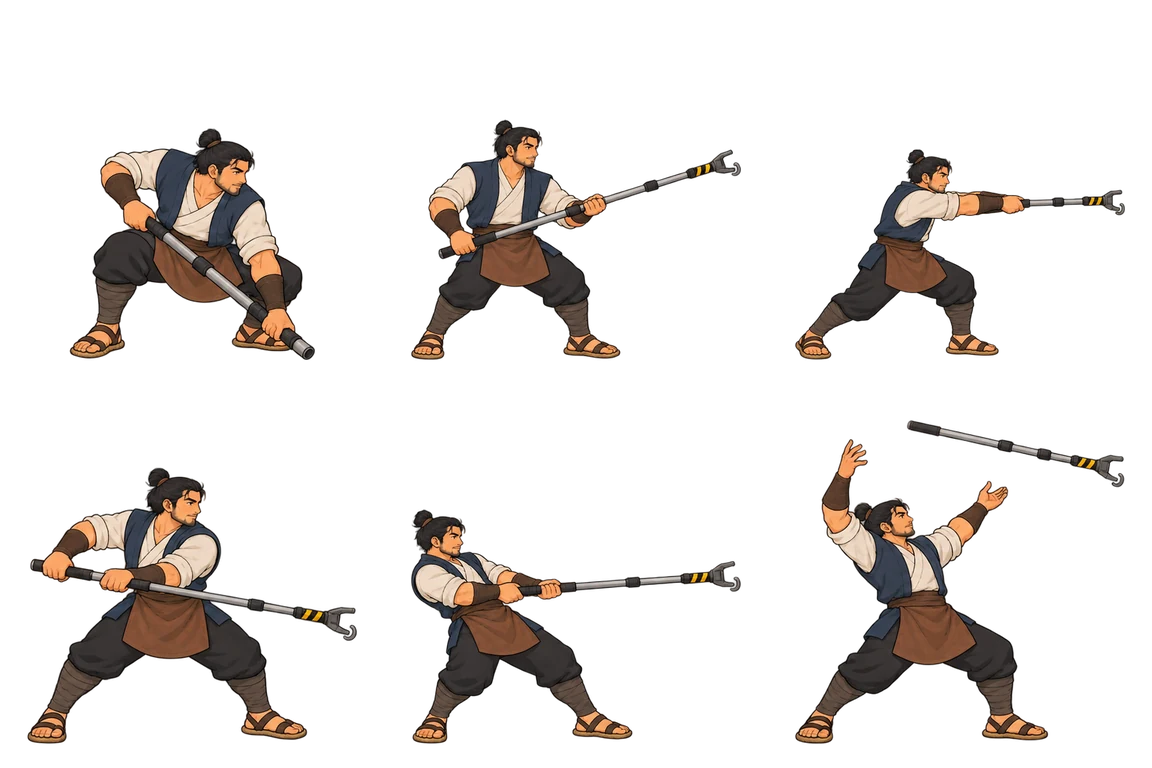
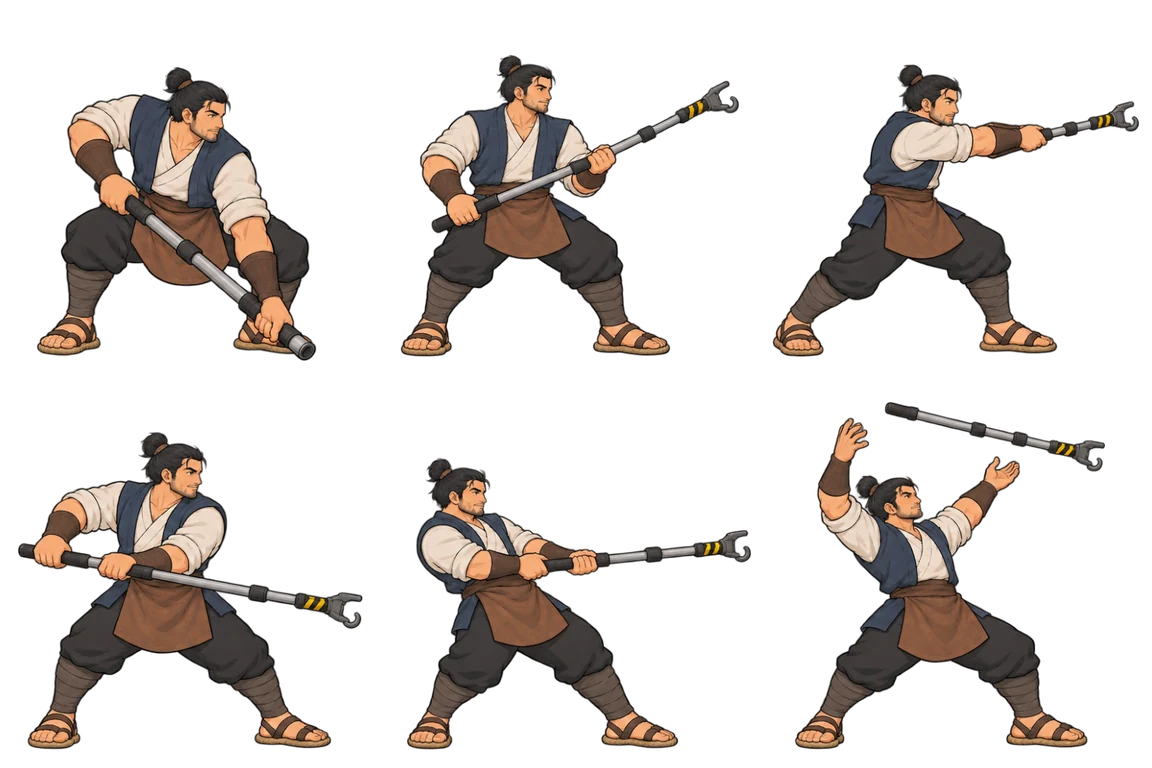
Import Mountain's and River's lance redraws (RD03, RD04): one size in every pose (#66)
* Import Mountain's lance redraw (RD03): one size in every pose, scale 1.0

Claude-Session: https://claude.ai/code/session_0139SQ3paqJydhynh44z9WB6

* Import River's lance redraw (RD04): one size in every pose, scale 0.96

Claude-Session: https://claude.ai/code/session_0139SQ3paqJydhynh44z9WB6

* Draw Mountain's dash at his run size (was about 10 % smaller)

Claude-Session: https://claude.ai/code/session_0139SQ3paqJydhynh44z9WB6

* Weapon throws: empty hands from the release on (the weapon was drawn twice)

The sim lets go of a thrown weapon on the throw's first active frame, but the
hero kept the throw pose (weapon in hand) until the action ended.

Claude-Session: https://claude.ai/code/session_0139SQ3paqJydhynh44z9WB6

---------

diff --git a/packages/platform/test/sprites.test.ts b/packages/platform/test/sprites.test.ts
@@ -402,3 +402,24 @@ test('the Sluice Commander leaps through his Flying Knee instead of holding a cr
   }
   expect(cells).toEqual([0, 1, 2, 3, 4, 5]);
 });
+
+test('a weapon throw never draws the weapon in hand once it has let go (Guo, 2026-11-22)', () => {
+  for (const h of HEROES) {
+    for (const weapon of ['service-lance', 'workstaff', 'six-round-sidearm', 'wood-axe']) {
+      const w = createWorld(1, { heroes: [h.id, 'river'] });
+      const f = heroOf(w, 0)!;
+      claim(w, f, spawnItem(w, weaponIndex(weapon), f.x, f.z));
+      const kit = kitOf(f)!;
+      const i = kit.actions.findIndex((a) => a.category === 'weaponThrow');
+      expect(i, `${h.id} ${weapon} throw`).toBeGreaterThanOrEqual(0);
+      const a = kit.actions[i]!;
+      startAction(f, i);
+      for (let n = 0; n < totalFrames(a); n += 1) {
+        f.stateFrame = n;
+        const s = pick.fighter(f, 0)!;
+        // The weapon leaves the hand on the first active frame (sim items.ts).
+        if (n >= a.startup) expect(s.sheet, `${h.id} ${a.id} frame ${n}`).toMatch(/\.idle$/);
+      }
+    }
+  }
+});

diff --git a/packages/platform/src/assets/sprites.ts b/packages/platform/src/assets/sprites.ts
@@ -628,6 +628,12 @@ export class SpritePicker {
         const p = phase(f, a);
         const wp = WEAPON_POSES[a.id];
         // A hero without Stage 1 weapon sheets (the twins) swings with its neutral starter.
+        // A weapon throw lets go on its first active frame (sim items.ts release): from then
+        // on the weapon flies as its own item, so the hero's pose must not still draw it in
+        // hand (two weapons on screen, Guo 2026-11-22). The throw pose shows the wind-up;
+        // the release and recovery show the hero with empty hands.
+        if (wp && a.pose.startsWith('weapon.') && p > 0 && a.category === 'weaponThrow')
+          return s('idle', 0);
         if (wp && a.pose.startsWith('weapon.'))
           return (
             s(wp.sheet, wp.cells[p]) ??

diff --git a/tools/art/size_fixes.py b/tools/art/size_fixes.py
@@ -11,7 +11,7 @@ never compounds them.
 Not listed on purpose: walk and run sheets drawn in profile (the head reads small against
 the three-quarter idle head, but the standing height matches), and sheets whose cells
 differ from each other (one scale cannot fix them; they need a redraw, as Wind's and Fire's
-lance-a got on 2026-11-19).
+lance-a got on 2026-11-19 and Mountain's and River's on 2026-11-22).
 """
 
 from __future__ import annotations
@@ -19,6 +19,10 @@ from __future__ import annotations
 SIZE_FIX: dict[str, float] = {
     # The lance-a redraw (RD02), fitted into its cells at 0.96 (repack_cells.py): was 0.92.
     "hero.fire.sheet.lance-a": 1.0,
+    # The lance redraw (RD03), fitted into its cells at 0.97 (repack_cells.py): was 0.9.
+    "hero.mountain.sheet.lance-a": 1.0,
+    # The lance redraw (RD04): head 0.92 to 0.94 x idle at 0.92; 0.96 checked by eye.
+    "hero.river.sheet.lance-a": 0.96,
     "hero.fire.pose.standing.forge-side-hook": 1.149,  # was 1.0, head 0.87 x idle
     "hero.fire.pose.standing.rising-brand": 1.136,  # was 1.0, head 0.88 x idle
     "hero.fire.pose.standing.spark-jab": 0.943,  # was 1.0, head 1.06 x idle
@@ -30,6 +34,9 @@ SIZE_FIX: dict[str, float] = {
     "hero.fire.sheet.exact-counter": 0.926,  # was 1.0, head 1.08 x idle
     "hero.fire.sheet.guard": 0.926,  # was 1.0, head 1.08 x idle
     "hero.fire.sheet.hammer": 1.105,  # was 1.0, head 0.91 x idle
+    # Mountain shrank for the dash before a run (Guo, 2026-11-22): set to the run's head size.
+    "hero.mountain.sheet.dash": 0.91,  # was 0.82, head 0.78 x idle (run 0.85)
+    "hero.mountain.s3.sheet.dash": 0.94,  # was 0.792, head 0.76 x idle (run 0.92)
     "hero.mountain.s3.sheet.breaker-pickup": 0.807,  # was 0.864, head 1.07 x idle
     "hero.mountain.s3.sheet.grab-throw": 0.854,  # was 0.905, head 1.06 x idle
     "hero.river.s3.sheet.guard": 0.857,  # was 0.926, head 1.08 x idle

diff --git a/tools/art/import_art.py b/tools/art/import_art.py
@@ -63,6 +63,8 @@ APPROVED = {
     # into their cells by tools/art/repack_cells.py (Wind 0.92, Fire 0.96).
     "HERO-WND-LANCE-A": "HERO-WND-LANCE-A_v2_fit.png",
     "HERO-FIR-LANCE-A": "HERO-FIR-LANCE-A_v2_fit.png",
+    "HERO-MTN-LANCE": "HERO-MTN-LANCE_v2_fit.png",
+    "HERO-RIV-LANCE": "HERO-RIV-LANCE_v2.png",
 }
 
 HEROES = {

diff --git a/Guo_tests.md b/Guo_tests.md
@@ -1906,3 +1906,40 @@ Use the commands of the section above (this branch).
 2. **Fire's Stage 3 run:** the same as Fire in a Stage 3 room.
 3. **Wind's and Fire's lance:** Lab, Stage 2 Systems Saboteur, pick up the lance as Wind and as Fire: holding it, they stay the size of their idle pose.
 4. **Mountain and River:** still smaller while holding the lance (known, waits for RD03/RD04).
+
+## Mountain's and River's lance redraws (RD03, RD04, 2026-11-22)
+
+**What changed:** Mountain's lance sheet is the redraw RD03: all six poses at one size, as tall as idle (the old sheet drew the stance about 20 % smaller). The thrust's back foot touched the next cell, so the sheet is fitted into its cells at 97 % (`HERO-MTN-LANCE_v2_fit.png`) and drawn at scale 1.0 (was 0.9). River's lance sheet is the redraw RD04, used as drawn (every pose inside its cell) at scale 0.96 (was 0.92).
+
+### Get and start the build
+
+```powershell
+cd C:\AI\Claude\FightForPeace
+git fetch origin claude/project-thread-uc3buf
+git checkout claude/project-thread-uc3buf
+git reset --hard origin/claude/project-thread-uc3buf
+pnpm install
+pnpm dev
+```
+
+### Test steps
+
+1. **Holding the lance:** Lab, Stage 2 Systems Saboteur, pick up the lance as Mountain, then as River. Standing with it, each is the same size as without it.
+2. **Lance moves:** use the pickup, thrust, sweep, hook and throw with both. Each keeps one size in every move, and no stray foot or lance end shows next to them.
+3. **Walking with the lance:** walk with it; the size stays the same as standing with it.
+
+### Mountain's dash before a run (2026-11-22)
+
+**What changed:** a double tap first plays the short dash, then the run. Mountain's dash sheet was drawn about 10 % smaller than his run, so he shrank for a moment before running. The dash is now drawn at his run size (scale 0.91, Stage 3 outfit 0.94).
+
+1. **Run start:** as Mountain, double-tap and hold **D**: he keeps one size from the dash into the run.
+2. **Stage 3 outfit:** the same in a Stage 3 room.
+3. **Dash alone:** double-tap **D** without holding: the dash is the size of his walk.
+
+### A thrown weapon is no longer drawn twice (2026-11-22)
+
+**What changed:** a weapon throw lets go of the weapon on its first active frame, and from then on the weapon flies as its own picture. The hero's throw pose still drew the weapon in hand until the throw ended, so two weapons showed. Now the throw pose shows only the wind-up; from the release on, the hero's hands are empty. A new test checks this for every hero with the lance, workstaff, sidearm and axe.
+
+1. **Lance:** Lab, Stage 2 Systems Saboteur, pick up the lance and throw it (Interact while holding) with each hero: one lance only, leaving the hands.
+2. **Other weapons:** the same with the workstaff (Stage 1) and the axe or hammer (Stage 3).
+3. **Dropping:** press Down with Interact while holding a weapon: it falls at the feet, one weapon only.
